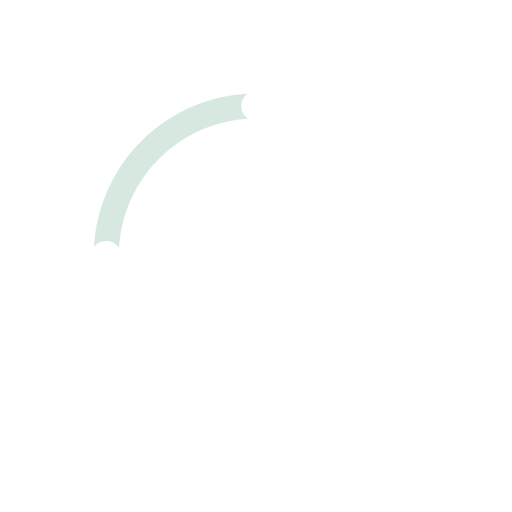
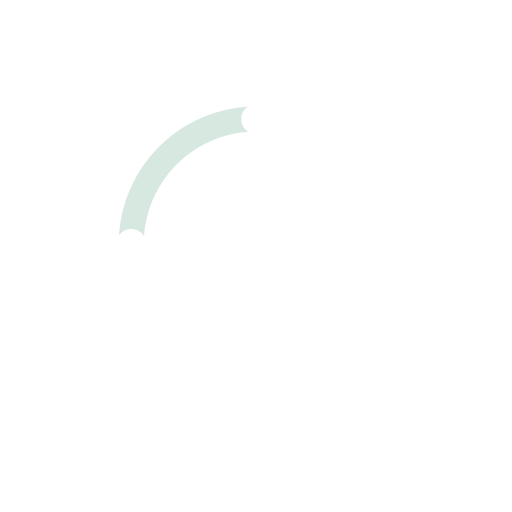
Link terms of service and privacy policy docs

Changed region(s): [[0.1875, 0.1875, 0.5, 0.5]]

diff --git a/app/(tabs)/Profile.tsx b/app/(tabs)/Profile.tsx
@@ -1,4 +1,4 @@
-import { ActivityIndicator, Image, Pressable, ScrollView, StyleSheet, Text, View } from 'react-native'
+import { ActivityIndicator, Image, Linking, Pressable, ScrollView, StyleSheet, Text, View } from 'react-native'
 import React, { useState } from 'react'
 import { useAuth } from '@/context/AuthContext'
 import { useRouter } from 'expo-router'
@@ -11,6 +11,7 @@ import Ionicons from '@react-native-vector-icons/ionicons'
 import AppButton from '@/components/AppButton'
 import ErrorModal from '@/components/ErrorModal'
 import { setScrollBudget, setTrackedApps } from '@/utils/userPreference'
+import { PRIVACY_POLICY_URL, TERMS_OF_SERVICE_URL } from '@/constants/links'
 
 const Profile = () => {
   const router = useRouter()
@@ -76,14 +77,14 @@ const Profile = () => {
             </View>
           </Pressable>
 
-          <Pressable onPress={() => router.push("/AccountManagement/ManageTrackedApps")} style={styles.section}>
+          <Pressable onPress={() => Linking.openURL(PRIVACY_POLICY_URL)} style={styles.section}>
             <View style={styles.row}>
               <Text style={styles.label}>Privacy Policy</Text>
               <Ionicons name="chevron-forward" size={20} color={colors.darkMuted} />
             </View>
           </Pressable>
 
-          <Pressable onPress={() => router.push("/AccountManagement/ManageTrackedApps")} style={styles.section}>
+          <Pressable onPress={() => Linking.openURL(TERMS_OF_SERVICE_URL)} style={styles.section}>
             <View style={styles.row}>
               <Text style={styles.label}>Terms Of Service</Text>
               <Ionicons name="chevron-forward" size={20} color={colors.darkMuted} />

diff --git a/app/(auth)/index.tsx b/app/(auth)/index.tsx
@@ -1,4 +1,4 @@
-import { StyleSheet, Text, View } from 'react-native'
+import { Linking, StyleSheet, Text, View } from 'react-native'
 import React, { useState } from 'react'
 import { SafeAreaView } from 'react-native-safe-area-context'
 import { spacing } from '@/constants/spacing'
@@ -13,6 +13,7 @@ import * as z from "zod"
 import { useAuth } from '@/context/AuthContext'
 import ErrorModal from '@/components/ErrorModal'
 import MessageModal from '@/components/MessageModal'
+import { PRIVACY_POLICY_URL, TERMS_OF_SERVICE_URL } from '@/constants/links'
 
 const dataSchema = z.object({
   email: z.email(),
@@ -136,7 +137,7 @@ const Auth = () => {
         <View style={styles.view}>
           <AppButton isLoading={loading} onButtonPressed={handleCreateAccount}>Create Account</AppButton>
           <Text style={styles.agreement}>
-            By continuing, you agree to our <Link href={"/"} style={styles.link}>Terms</Link> & <Link href={"/"} style={styles.link}>Privacy Policy</Link>
+            By continuing, you agree to our <Text onPress={() => Linking.openURL(TERMS_OF_SERVICE_URL)} style={styles.link}>Terms</Text> & <Text onPress={() => Linking.openURL(PRIVACY_POLICY_URL)} style={styles.link}>Privacy Policy</Text>
           </Text>
         </View>
 

diff --git a/components/PermissionModal.tsx b/components/PermissionModal.tsx
@@ -49,7 +49,7 @@ const PermissionModal = ({ visible, onOpenSettings, onDismiss }: PermissionModal
 
           {/* Subtitle */}
           <Text style={styles.subtitle}>
-            Grant permission to see your app usage stats
+            Grant permission to see your app usage stats and stay within your daily budget.
           </Text>
 
           {/* Buttons container */}

diff --git a/constants/links.ts b/constants/links.ts
@@ -1,0 +1,2 @@
+export const PRIVACY_POLICY_URL = "https://jeremiahudom.github.io/scroll-budget/privacy-policy"
+export const TERMS_OF_SERVICE_URL = "https://jeremiahudom.github.io/scroll-budget/terms-of-service"
